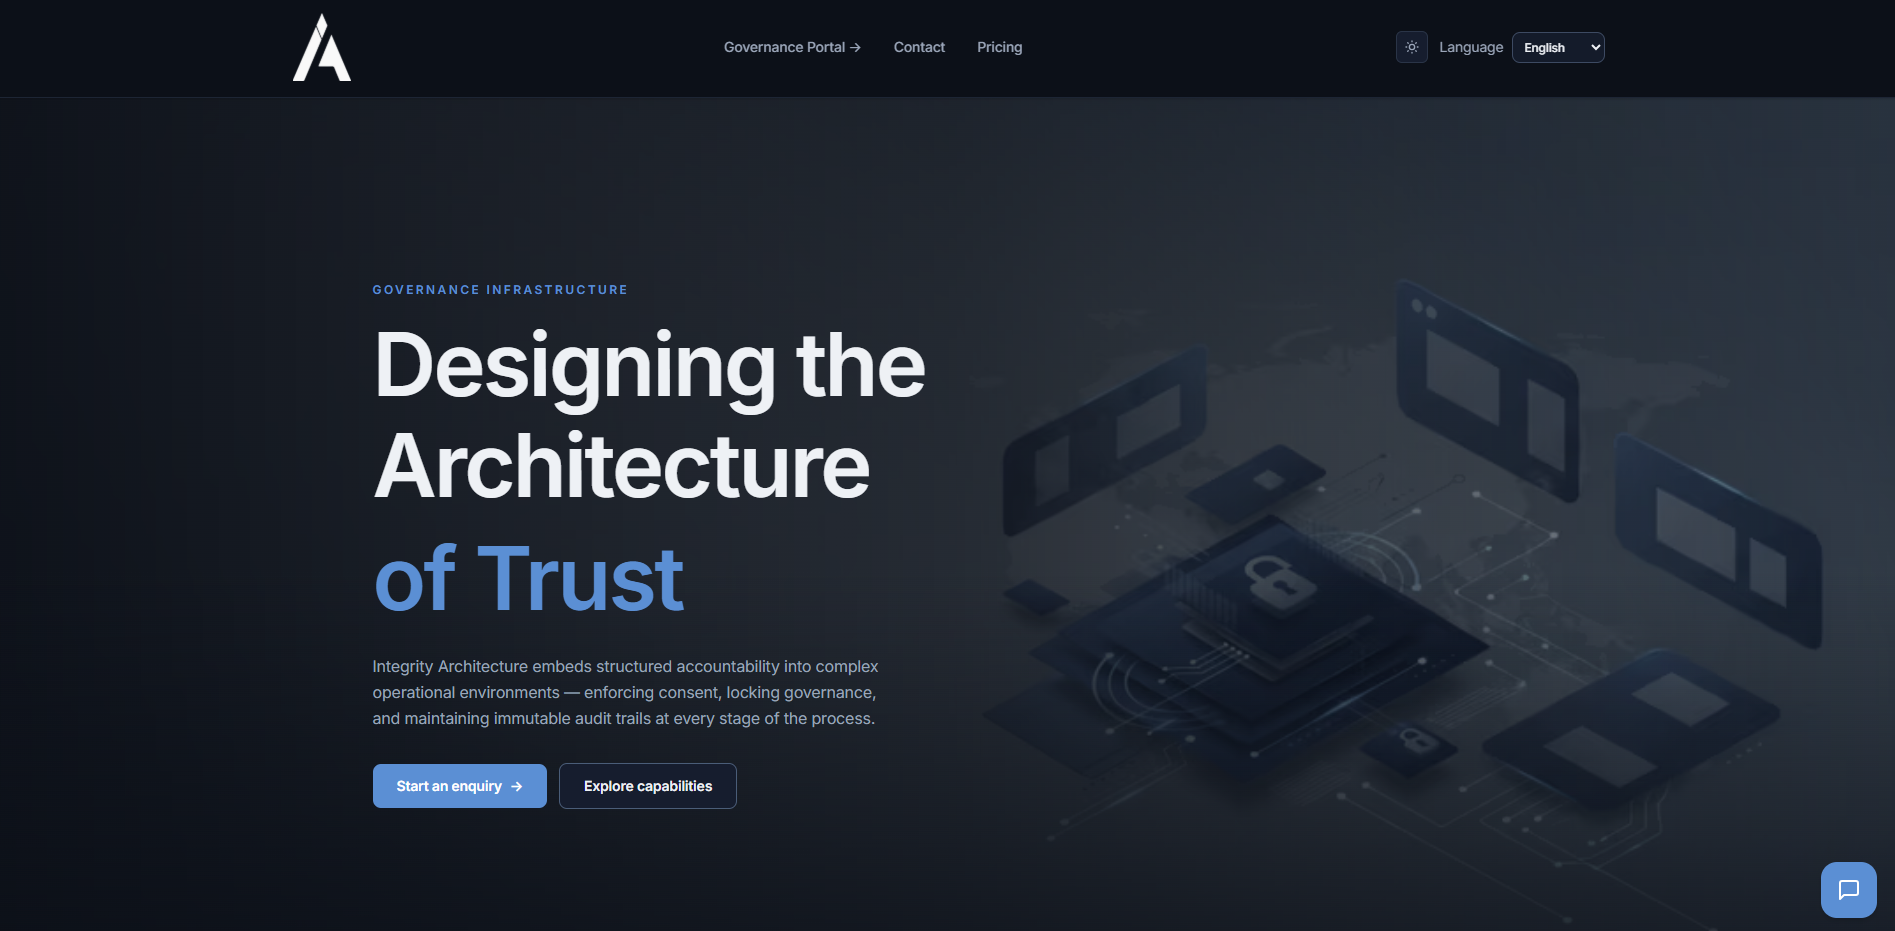
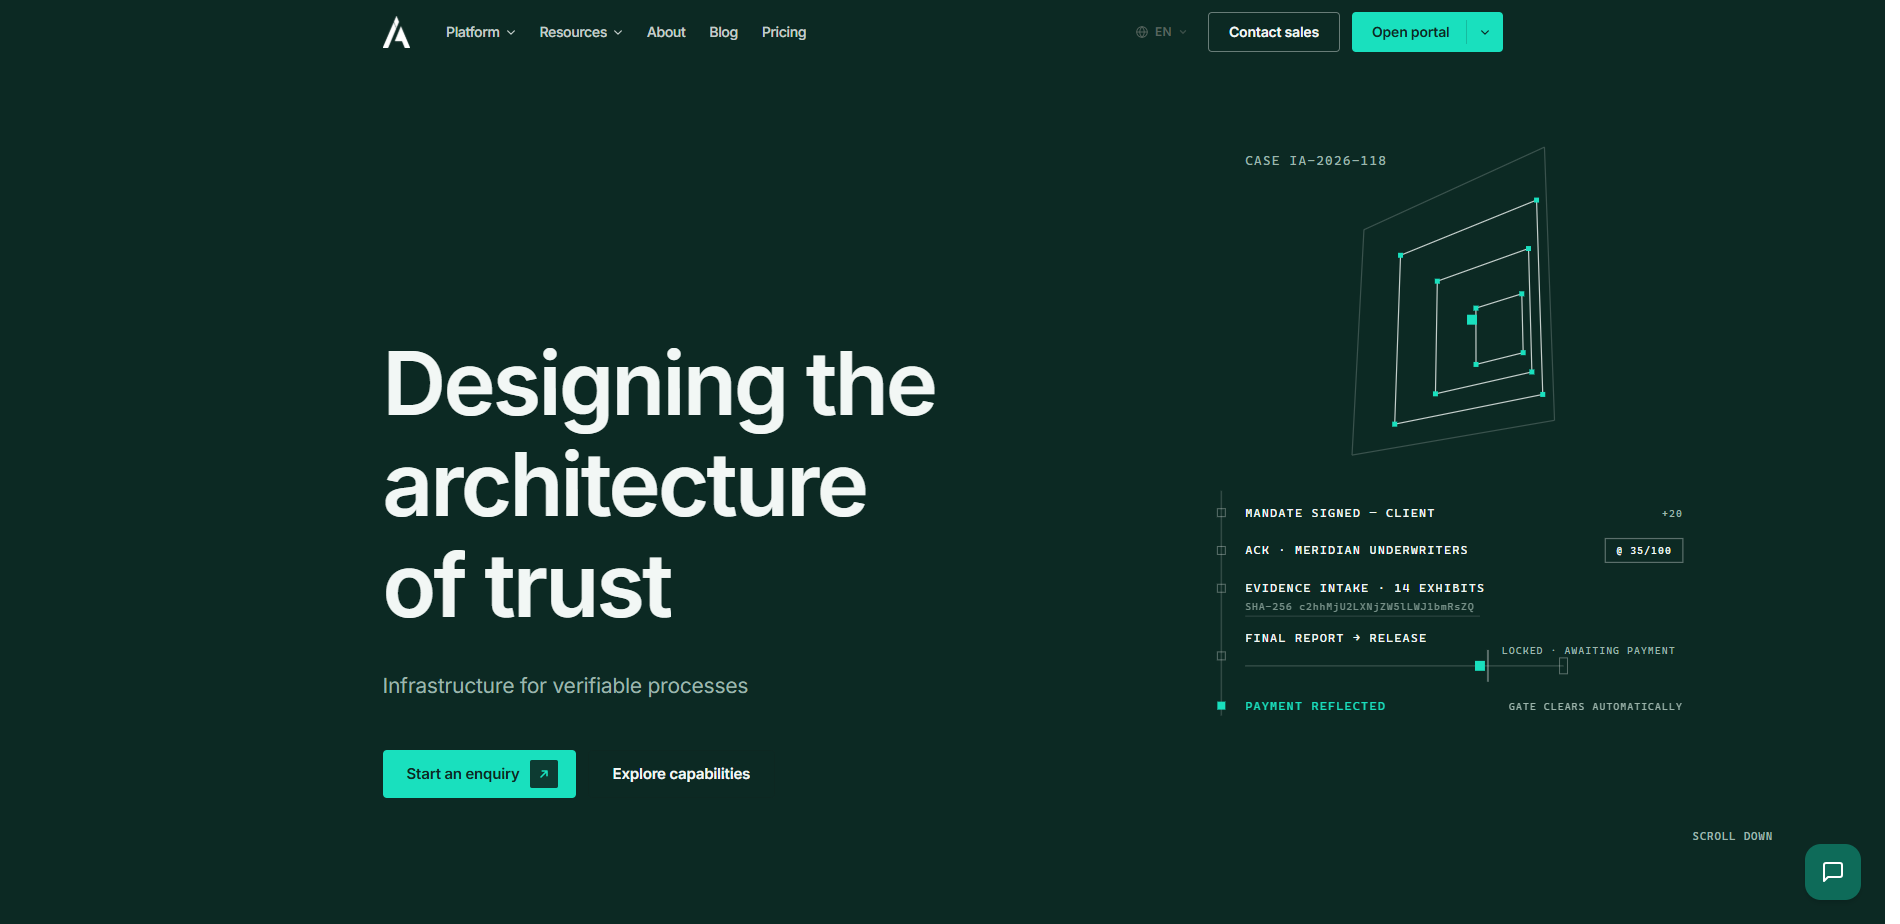
Add Product Engineer role, six client projects, and refreshed screenshots
Site and CV both reposition around product engineering alongside sales:

- New experience entry: Product Engineer, Governance Portal & Design
  System at Integrity Architecture, sourced from the role published on
  integrityarchitecture.co.za/about
- Headline is now "Product Engineer · Founder · B2B SaaS & Technology
  Sales"; tagline and About gain a product-engineering paragraph
- Capabilities add "Product & Frontend Engineering" and "Product
  Development"; "Technical" renamed to "Data & Infrastructure"
- Founder bullets: merged the two Azure/infrastructure lines and dropped
  the Integrity Architecture line now covered by its own role entry

Projects:

- Added iProtect, Medical Malpractice Claims, Dr Magerman, MODULUX,
  CSuits, and In the Public's Interest
- Re-captured Integrity Architecture and ABC Inc after their redesigns,
  plus UrbanLyft (removes an unloaded block and a white strip)

cv.html print CSS tightened so the CV still prints to two A4 pages.

diff --git a/src/data/portfolio.ts b/src/data/portfolio.ts
@@ -1,12 +1,12 @@
 export const siteConfig = {
   name: "Zubayr Abdullatif",
-  title: "Founder · B2B SaaS & Technology Sales",
-  sector: "High-Ticket Sales · B2B SaaS · Fintech & Compliance Solutions",
+  title: "Product Engineer · Founder · B2B SaaS & Technology Sales",
+  sector: "Product & Frontend Engineering · B2B SaaS · Fintech & Compliance Solutions",
   location: "Cape Town, South Africa",
   currentRole: "Founder · Zar Media Group",
   credentials: "BCom Information Technology Management · MANCOSA",
   tagline:
-    "Founder selling B2B SaaS to local and international clients — owning the full sales cycle from discovery and demos through negotiation and close, with the technical depth to speak credibly to both commercial stakeholders and engineering teams.",
+    "Product engineer and founder. I build the product and I sell it — Product Engineer for the Governance Portal and Design System at Integrity Architecture, and founder of a B2B SaaS business where I own the full sales cycle from discovery and demos through negotiation and close.",
   email: "business.zubayr@gmail.com",
   phone: "068 507 0088",
   phoneHref: "tel:+27685070088",
@@ -33,11 +33,14 @@ export const navLinks = [
 
 export const aboutParagraphs = [
   "I am the founder of Zar Media Group, a Cape Town software business selling B2B SaaS to local and international clients in the compliance, accounting, and financial services sectors. I own the full sales cycle — prospecting, high-level discovery meetings, product demonstrations, negotiation, and close — and I represent the company directly in the room where deals happen.",
+  "I am also a product engineer, not only a seller. Integrity Architecture lists me on its leadership and delivery team as Product Engineer for the Governance Portal and Design System — I own the portal surfaces operators work in day to day, building enterprise UI and UX for governance workflows such as consent capture, evidence intake, audit trails, and release gating, and I own the design system that drives frontend delivery across the platform.",
   "Beyond the deal, I operate the business end-to-end: I have shipped dozens of client projects while managing expectations, scope, and delivery timelines; I run the marketing function with weekly ad creative production; and I have built secure Azure cloud infrastructure to automate business processes and protect sensitive client documents. Analyst roles at SA Bullion and O'Brien Financial add direct exposure to client-facing reporting and regulated financial environments.",
   "I am completing a BCom in Information and Technology Management at MANCOSA. I am actively seeking high-ticket technology sales roles — B2B SaaS, fintech, or enterprise software — where technical credibility and commercial drive are what close deals.",
 ];
 
 export const whatIBring = [
+  { label: "Product Engineering", detail: "Enterprise portal UI and UX, design systems, and accessible responsive frontend delivery" },
+  { label: "Product Development", detail: "Discovery and requirements through scope, prototyping, release, and iteration" },
   { label: "Full Sales Cycle Ownership", detail: "Prospecting, discovery, demos, negotiation, and close — locally and internationally" },
   { label: "Technical Credibility", detail: "Founder-level product depth; fluent with both buyers and engineering teams" },
   { label: "Marketing & Pipeline", detail: "Weekly ad creative production, campaign management, and lead generation" },
@@ -71,9 +74,23 @@ export const experience: ExperienceItem[] = [
       "Developed and commercialised independent software products for the compliance, accounting, and financial sectors, taking each from concept through to paying clients",
       "Shipped dozens of client projects end-to-end while managing client expectations, scope, and delivery timelines from kickoff to handover",
       "Ran the marketing function, producing weekly ad creatives that sustained audience engagement and fed the sales pipeline",
-      "Provisioned and administered Azure virtual private servers to manage and automate core business processes, cutting manual operational overhead",
-      "Architected fully secure, cloud-based project environments to mitigate the risk of sensitive document leakage for clients in regulated industries",
-      "Delivered a governance and compliance infrastructure platform (Integrity Architecture) — enforcing audit trails, consent workflows, and accountability structures for financial and corporate clients",
+      "Provisioned and administered Azure virtual private servers to automate core business processes, architecting fully secure cloud environments that mitigate sensitive-document leakage risk for clients in regulated industries",
+      "Delivered a doctor-led medical negligence claim assessment platform (Medical Malpractice Claims) — a free case review intake funnel built for a sensitive, high-consideration enquiry across private and public sector matters",
+    ],
+  },
+  {
+    role: "Product Engineer · Governance Portal & Design System",
+    company: "Integrity Architecture",
+    sector: "RegTech · Audit Infrastructure · Enterprise Product",
+    period: "2026 – Present",
+    location: "Cape Town",
+    logo: "/images/employers/integrity-architecture.png",
+    featured: true,
+    highlights: [
+      "Named on the company's leadership and delivery team as Product Engineer, owning the portal surfaces operators work in day to day",
+      "Build enterprise portal UI and UX for governance workflows — consent capture, evidence intake, audit trails, and release gating — as accessible, responsive workflow design across devices",
+      "Own the design system driving frontend delivery, keeping components, typography, and interaction patterns consistent across the public platform and the authenticated portal",
+      "Work the product end-to-end with the commercial side — shaping scope from client discovery through to demonstrating the platform to enterprise prospects",
     ],
   },
   {
@@ -154,12 +171,63 @@ export const projects: ProjectItem[] = [
     relevance: "Financial document and reporting workflow management",
   },
   {
+    name: "iProtect",
+    description:
+      "Asset protection and tax structuring firm — trust and estate planning, deceased estate administration, and B-BBEE structuring presented across a multi-practice services architecture with consultation capture and client portal access.",
+    url: "https://www.iprotect.co.za/",
+    tags: ["Legal", "Tax Structuring", "Advisory"],
+    image: "/images/projects/iprotect.png",
+    relevance: "Regulated advisory firm operating across multiple national offices",
+  },
+  {
+    name: "Medical Malpractice Claims",
+    description:
+      "Doctor-led medical negligence claim assessment service — a free case review intake funnel built for a sensitive, high-consideration enquiry across private and public sector matters.",
+    url: "https://medicalmalpracticeclaims.co.za/",
+    tags: ["Legal", "Medical", "Lead Capture"],
+    image: "/images/projects/medical-malpractice-claims.png",
+    relevance: "Conversion-focused intake for a high-trust professional service",
+  },
+  {
+    name: "Dr Magerman",
+    description:
+      "Family general practice in Cape Town — same-day appointment booking, local SEO structure across five surrounding suburbs, and an operator-controlled notice system for practice hours and service interruptions.",
+    url: "https://www.drmagerman.co.za/",
+    tags: ["Healthcare", "Booking", "Local SEO"],
+    image: "/images/projects/dr-magerman.png",
+  },
+  {
     name: "UrbanLyft",
     description:
       "Corporate transport operations platform — contract-first scheduling, fixed monthly billing, and shift coverage management for enterprise clients.",
     url: "https://www.urbanlyft.co.za/",
     tags: ["Operations", "Enterprise", "Contracts"],
     image: "/images/projects/urbanlyft.png",
+  },
+  {
+    name: "MODULUX",
+    description:
+      "Modular and prefabricated housing manufacturer — a filterable design catalogue with pricing, display village and finance pathways funnelling into quote enquiry.",
+    url: "https://www.modulux.co.za/",
+    tags: ["Manufacturing", "Catalogue", "Lead Generation"],
+    image: "/images/projects/modulux.png",
+  },
+  {
+    name: "CSuits",
+    description:
+      "Menswear e-commerce storefront — full checkout with card, Apple Pay, Instant EFT and Capitec Pay, WhatsApp-based sizing, group-order discounting, and tracked nationwide delivery.",
+    url: "https://csuits.co.za/",
+    tags: ["E-commerce", "Retail", "Payments"],
+    image: "/images/projects/csuits.png",
+    relevance: "Own brand — built, merchandised, and operated end-to-end",
+  },
+  {
+    name: "In the Public's Interest",
+    description:
+      "Non-profit home-based nursing and community feeding scheme run with the Department of Health — area-routed nurse contact across six service zones, private care enquiries, and recurring donor pathways.",
+    url: "https://inthepublicsinterest.org/",
+    tags: ["Non-Profit", "Healthcare", "Community"],
+    image: "/images/projects/in-the-publics-interest.png",
   },
   {
     name: "Zar Media Group",
@@ -191,6 +259,27 @@ export const skillCategories: SkillCategory[] = [
     ],
   },
   {
+    category: "Product & Frontend Engineering",
+    type: "primary",
+    skills: [
+      "React & Next.js",
+      "TypeScript",
+      "Design Systems",
+      "UI/UX & Accessibility",
+      "Responsive Workflow Design",
+    ],
+  },
+  {
+    category: "Product Development",
+    type: "primary",
+    skills: [
+      "Discovery & Requirements",
+      "Scope & Roadmap",
+      "Prototyping",
+      "Release & Iteration",
+    ],
+  },
+  {
     category: "Marketing & Growth",
     type: "primary",
     skills: [
@@ -201,7 +290,7 @@ export const skillCategories: SkillCategory[] = [
     ],
   },
   {
-    category: "Technical",
+    category: "Data & Infrastructure",
     type: "secondary",
     skills: [
       "Azure Cloud Infrastructure",

diff --git a/public/cv.html b/public/cv.html
@@ -354,25 +354,25 @@
         padding: 0;
         box-shadow: none;
         font-size: 12px;
-        zoom: 0.92;
+        zoom: 0.90;
       }
 
       .doc {
-        padding: 1.6cm 1.8cm 1.1cm;
+        padding: 1.4cm 1.8cm 0.7cm;
       }
 
-      .cv-header { padding-bottom: 1rem; margin-bottom: 1.1rem; }
+      .cv-header { padding-bottom: 0.8rem; margin-bottom: 0.9rem; }
       .cv-name { font-size: 1.9rem; }
-      .section { margin-bottom: 1.3rem; }
-      .exp-item { margin-bottom: 0.9rem; padding-bottom: 0.9rem; }
+      .section { margin-bottom: 0.95rem; }
+      .exp-item { margin-bottom: 0.72rem; padding-bottom: 0.72rem; }
       .exp-bullets { margin-top: 0.45rem; }
-      .exp-bullets li { font-size: 11.5px; line-height: 1.55; margin-bottom: 0.2rem; }
+      .exp-bullets li { font-size: 11.5px; line-height: 1.5; margin-bottom: 0.14rem; }
       .exp-role { font-size: 1.02rem; }
       .summary p { font-size: 12px; line-height: 1.6; }
       .skill-tag { font-size: 10.5px; }
-      .edu-row { margin-bottom: 0.6rem; padding-bottom: 0.6rem; }
+      .edu-row { margin-bottom: 0.48rem; padding-bottom: 0.48rem; }
       .add-note { font-size: 11px; }
-      .cv-footer { margin-top: 0.8rem; padding-top: 0.6rem; }
+      .cv-footer { margin-top: 0.6rem; padding-top: 0.45rem; page-break-inside: avoid; }
 
       /* Keep individual entries together; let long sections flow across pages */
       .exp-item  { page-break-inside: avoid; }
@@ -413,8 +413,8 @@
     <!-- ── HEADER ─────────────────────────────────────────── -->
     <header class="cv-header">
       <h1 class="cv-name">Zubayr Abdullatif</h1>
-      <p class="cv-title">Founder &nbsp;·&nbsp; B2B SaaS &amp; Technology Sales</p>
-      <p class="cv-sector">High-Ticket Sales &nbsp;·&nbsp; B2B SaaS &nbsp;·&nbsp; Fintech &amp; Compliance Solutions</p>
+      <p class="cv-title">Product Engineer &nbsp;·&nbsp; Founder &nbsp;·&nbsp; B2B SaaS &amp; Technology Sales</p>
+      <p class="cv-sector">Product &amp; Frontend Engineering &nbsp;·&nbsp; B2B SaaS &nbsp;·&nbsp; Fintech &amp; Compliance Solutions</p>
       <div class="cv-contact">
         <a href="mailto:business.zubayr@gmail.com">business.zubayr@gmail.com</a>
         <span class="sep">|</span>
@@ -432,7 +432,7 @@
     <section class="section summary">
       <h2 class="section-title">Professional Summary</h2>
       <p>Founder and commercial operator based in Cape Town, running Zar Media Group — a software business selling B2B SaaS to local and international clients in the compliance, accounting, and financial services sectors. Comfortable owning the full sales cycle: prospecting, high-level discovery meetings, product demonstrations, negotiation, and close — with the technical depth to speak credibly to both commercial stakeholders and engineering teams.</p>
-      <p>Proven operator beyond the deal: has shipped dozens of client projects end-to-end, run marketing with weekly ad creative production, and built secure Azure cloud infrastructure to automate business processes. Analyst roles at SA Bullion and O'Brien Financial add direct exposure to client-facing reporting and regulated financial environments. Completing a BCom in Information and Technology Management at MANCOSA.</p>
+      <p>A product engineer as well as a seller — Product Engineer, Governance Portal &amp; Design System at Integrity Architecture, owning enterprise portal UI/UX and design-system-driven frontend delivery. Proven operator beyond the deal: has shipped dozens of client projects end-to-end, run marketing with weekly ad creative production, and built secure Azure cloud infrastructure to automate business processes. Analyst roles at SA Bullion and O'Brien Financial add direct exposure to client-facing reporting and regulated financial environments. Completing a BCom in Information and Technology Management at MANCOSA.</p>
     </section>
 
     <!-- ── EXPERIENCE ─────────────────────────────────────── -->
@@ -451,9 +451,22 @@
           <li>Developed and commercialised independent software products for the compliance, accounting, and financial sectors, taking each from concept through to paying clients</li>
           <li>Shipped dozens of client projects end-to-end while managing client expectations, scope, and delivery timelines from kickoff to handover</li>
           <li>Ran the marketing function, producing weekly ad creatives that sustained audience engagement and fed the sales pipeline</li>
-          <li>Provisioned and administered Azure virtual private servers to manage and automate core business processes, cutting manual operational overhead</li>
-          <li>Architected fully secure, cloud-based project environments to mitigate the risk of sensitive document leakage for clients in regulated industries</li>
-          <li>Delivered a governance and compliance infrastructure platform (Integrity Architecture) — enforcing audit trails, consent workflows, and accountability structures for financial and corporate clients</li>
+          <li>Provisioned and administered Azure virtual private servers to automate core business processes, architecting fully secure cloud environments that mitigate sensitive-document leakage risk for clients in regulated industries</li>
+          <li>Delivered a doctor-led medical negligence claim assessment platform (Medical Malpractice Claims) — a free case review intake funnel built for a sensitive, high-consideration enquiry across private and public sector matters</li>
+        </ul>
+      </div>
+
+      <div class="exp-item">
+        <div class="exp-row">
+          <h3 class="exp-role">Product Engineer &nbsp;·&nbsp; Governance Portal &amp; Design System</h3>
+          <span class="exp-period">2026 – Present</span>
+        </div>
+        <p class="exp-company">Integrity Architecture (Pty) Ltd &nbsp;·&nbsp; Cape Town</p>
+        <p class="exp-sector">RegTech · Audit Infrastructure · Enterprise Product</p>
+        <ul class="exp-bullets">
+          <li>Named on the company's leadership and delivery team as Product Engineer, owning the portal surfaces operators work in day to day</li>
+          <li>Build enterprise portal UI and UX for governance workflows — consent capture, evidence intake, audit trails, and release gating — as accessible, responsive workflow design across devices</li>
+          <li>Own the design system driving frontend delivery, and work the product end-to-end with the commercial side — shaping scope from client discovery through to demonstrating the platform to enterprise prospects</li>
         </ul>
       </div>
 
@@ -515,6 +528,25 @@
           </div>
         </div>
         <div>
+          <p class="skill-label">Product &amp; Frontend Engineering</p>
+          <div class="skill-tags">
+            <span class="skill-tag hi">React &amp; Next.js</span>
+            <span class="skill-tag hi">TypeScript</span>
+            <span class="skill-tag hi">Design Systems</span>
+            <span class="skill-tag hi">UI/UX &amp; Accessibility</span>
+            <span class="skill-tag hi">Responsive Workflow Design</span>
+          </div>
+        </div>
+        <div>
+          <p class="skill-label">Product Development</p>
+          <div class="skill-tags">
+            <span class="skill-tag hi">Discovery &amp; Requirements</span>
+            <span class="skill-tag hi">Scope &amp; Roadmap</span>
+            <span class="skill-tag hi">Prototyping</span>
+            <span class="skill-tag hi">Release &amp; Iteration</span>
+          </div>
+        </div>
+        <div>
           <p class="skill-label">Marketing &amp; Growth</p>
           <div class="skill-tags">
             <span class="skill-tag hi">Ad Creative Production</span>
@@ -524,7 +556,7 @@
           </div>
         </div>
         <div>
-          <p class="skill-label">Technical</p>
+          <p class="skill-label">Data &amp; Infrastructure</p>
           <div class="skill-tags">
             <span class="skill-tag">Azure Cloud Infrastructure</span>
             <span class="skill-tag">Python</span>
